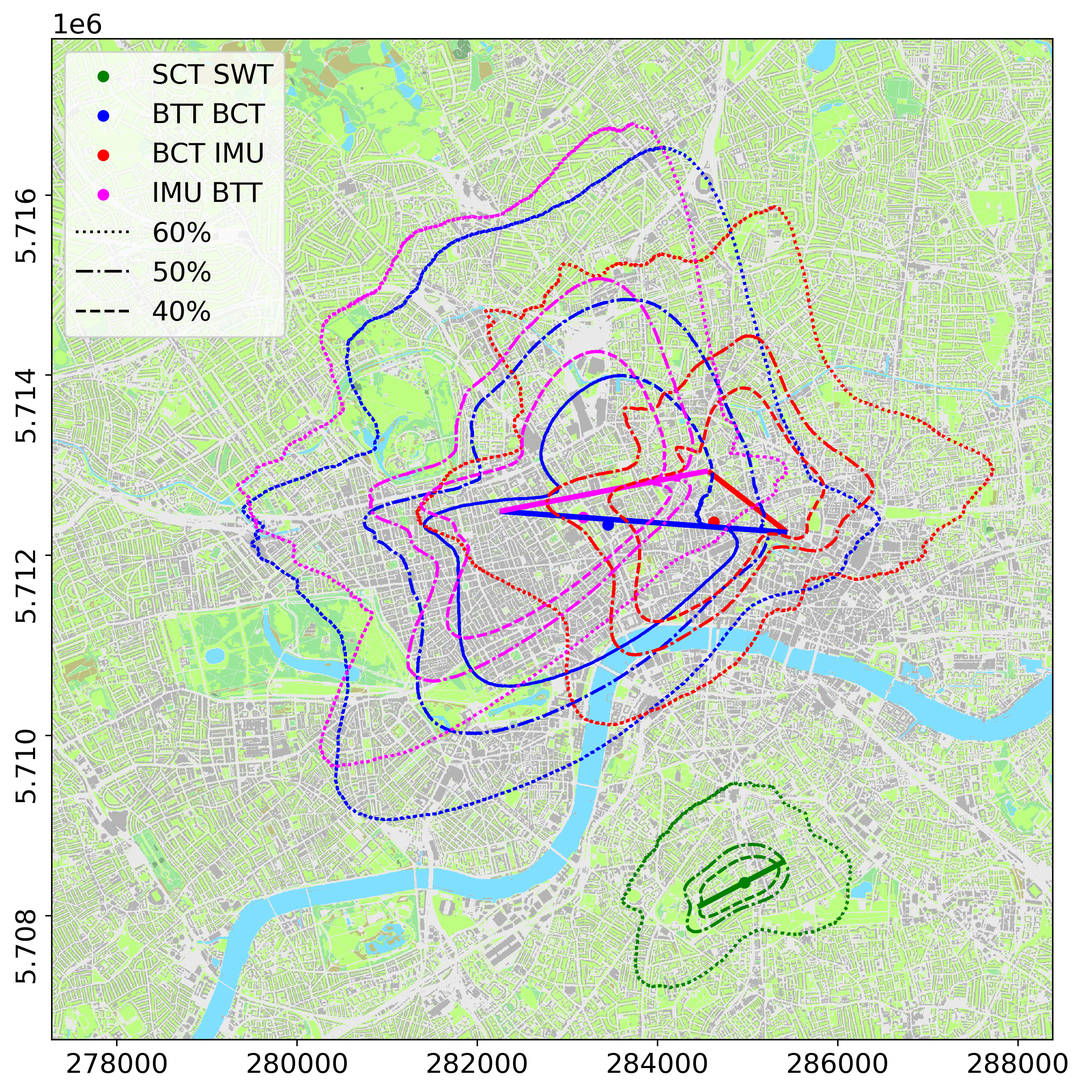
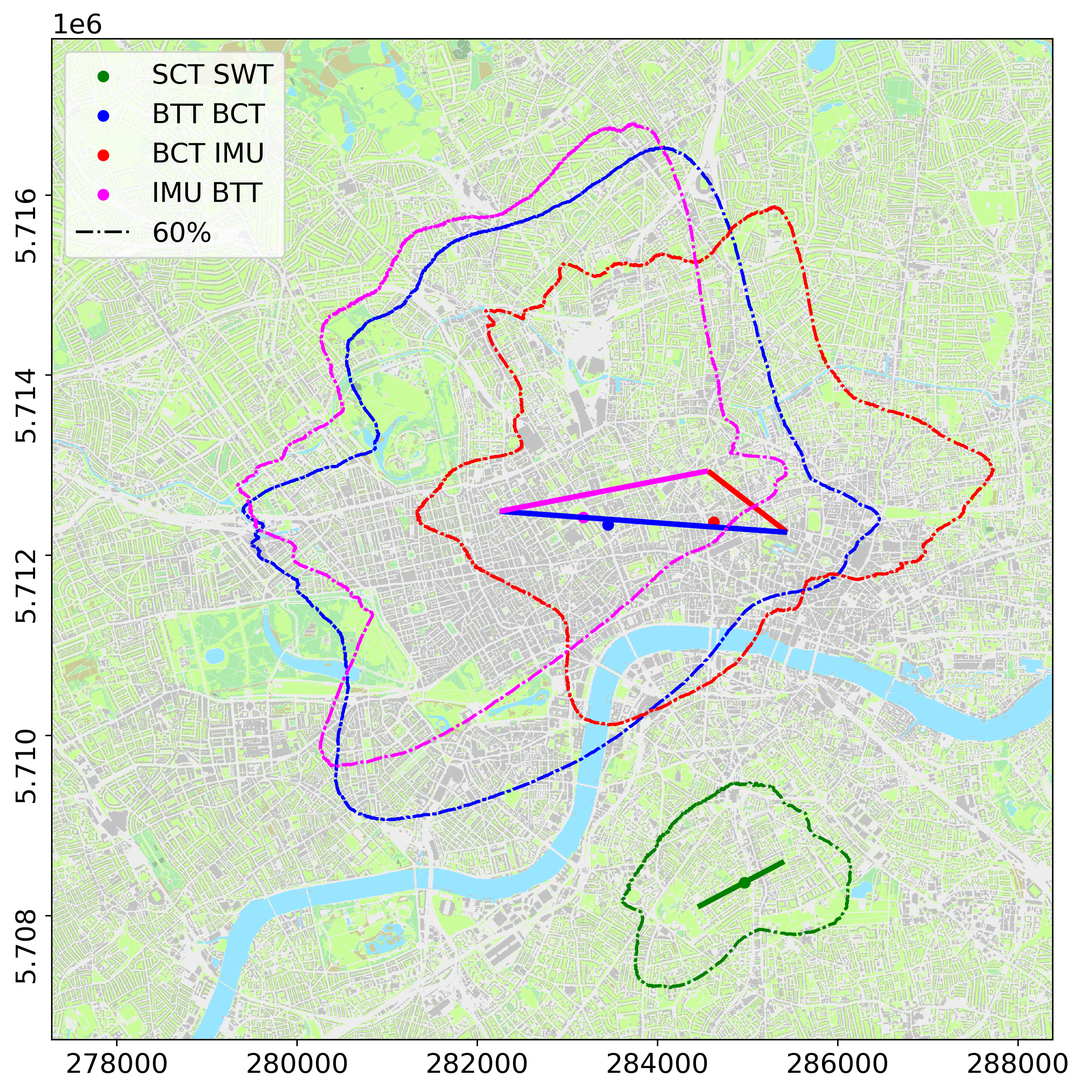
change sa line plot to just 60, and add a function creating a panel for each path

Changed region(s): [[0.0312, 0.031, 0.9996, 0.9603]]

diff --git a/scint_fp/functions/combine_rasters/sa_lines_combine_raster.py b/scint_fp/functions/combine_rasters/sa_lines_combine_raster.py
@@ -10,6 +10,7 @@ import matplotlib as mpl
 import matplotlib.lines as mlines
 import os
 import matplotlib.pyplot as plt
+from matplotlib.colors import LinearSegmentedColormap
 
 import scint_fp.functions.plot_functions.plot_sa_lines.sa_lines_funs as sa_lines_funs
 
@@ -60,7 +61,7 @@ def plot_sa_lines_combined_raster(file_list,
     cmap_lc = colors.ListedColormap(color_list_lc)
     bounds_lc = [0, 1, 2, 3, 4, 5, 6, 7, 8]
     norm_lc = colors.BoundaryNorm(bounds_lc, cmap_lc.N)
-    rasterio.plot.show(landcover_raster, ax=ax, cmap=cmap_lc, norm=norm_lc, interpolation='nearest', alpha=0.5)
+    rasterio.plot.show(landcover_raster, ax=ax, cmap=cmap_lc, norm=norm_lc, interpolation='nearest', alpha=0.4)
 
     # plot paths
     df_12 = gpd.read_file('D:/Documents/scint_plots/scint_plots/sa_position_and_lc_fraction/scint_path_shp/BCT_IMU.shp')
@@ -74,11 +75,6 @@ def plot_sa_lines_combined_raster(file_list,
 
     df_13 = gpd.read_file('D:/Documents/scint_plots/scint_plots/sa_position_and_lc_fraction/scint_path_shp/IMU_BTT.shp')
     df_13.plot(edgecolor='magenta', ax=ax, linewidth=3.0)
-
-    left = []
-    right = []
-    top = []
-    bottom = []
 
     # plot the SAs
     for i, filename in enumerate(file_list):
@@ -95,19 +91,12 @@ def plot_sa_lines_combined_raster(file_list,
 
         raster = rasterio.open(filename)
 
-        left.append(raster.bounds.left)
-        right.append(raster.bounds.right)
-        top.append(raster.bounds.top)
-        bottom.append(raster.bounds.bottom)
-
         raster_array_untrimmed = raster.read()
 
-        fp_40 = reweight_fp(raster_array_untrimmed, labels, 0.4)
-        fp_50 = reweight_fp(raster_array_untrimmed, labels, 0.5)
         fp_60 = reweight_fp(raster_array_untrimmed, labels, 0.6)
-        weight_dict = {'40': fp_40, '50': fp_50, '60': fp_60}
+        weight_dict = {'60': fp_60}
 
-        linestyle_dict = {'60': ':', '50': '-.', '40': '--'}
+        linestyle_dict = {'60': 'dashdot'}
 
         for weight in weight_dict.keys():
 
@@ -145,6 +134,162 @@ def plot_sa_lines_combined_raster(file_list,
     handles, labels = ax.get_legend_handles_labels()
 
     line_60 = mlines.Line2D([], [], color='k', linestyle=linestyle_dict['60'], label='60%')
+
+    handles.append(line_60)
+
+    plt.legend(handles=handles, loc='upper left')
+    plt.yticks(rotation=90)
+
+    # limits which stay constant between and which suit the SAs
+    ax.set_xlim(277277.92426043435, 288387.33066867734)
+    ax.set_ylim(5706625.265920927, 5717734.67232917)
+
+    plt.savefig(save_path + 'sa_lines_combine.png', bbox_inches='tight', dpi=300)
+    # plt.show()
+
+    print('end')
+
+
+def plot_sa_lines_combined_raster_panels(file_list,
+                                         colour_list,
+                                         save_path,
+                                         landcover_raster_filepath='C:/Users/beths/OneDrive - University of Reading/Model_Eval/QGIS/Elliott/LandUseMM_7classes_32631.tif',
+                                         given_list=True):
+    """
+
+    :return:
+    """
+
+    fig = plt.figure(figsize=(10, 10))
+
+    ax1 = plt.subplot(2, 2, 1)
+    ax2 = plt.subplot(2, 2, 2)
+    ax3 = plt.subplot(2, 2, 3)
+    ax4 = plt.subplot(2, 2, 4)
+
+    axs = [ax1, ax2, ax3, ax4]
+
+    # plot the land cover map
+    landcover_raster = rasterio.open(landcover_raster_filepath)
+    color_list_lc = ["white", "dimgrey", "lightgrey", "deepskyblue", "lawngreen", "darkgreen", "limegreen", "olive"]
+    # make a color map of fixed colors
+    cmap_lc = colors.ListedColormap(color_list_lc)
+    bounds_lc = [0, 1, 2, 3, 4, 5, 6, 7, 8]
+    norm_lc = colors.BoundaryNorm(bounds_lc, cmap_lc.N)
+
+    for axis in axs:
+        rasterio.plot.show(landcover_raster, ax=axis, cmap=cmap_lc, norm=norm_lc, interpolation='nearest', alpha=0.4)
+
+        # limits which stay constant between and which suit the SAs
+        axis.set_xlim(277277.92426043435, 288387.33066867734)
+        axis.set_ylim(5706625.265920927, 5717734.67232917)
+
+        # remove x and y ticks
+        axis.set_xticks([])
+        axis.set_yticks([])
+        axis.set_aspect('equal')
+
+    # plot the SAs
+    for i, filename in enumerate(file_list):
+
+        if 'SCT_SWT' in filename:
+            axis = ax4
+        elif 'BCT_IMU' in filename:
+            axis = ax2
+        elif 'BTT_BCT' in filename:
+            axis = ax3
+        else:
+            assert 'IMU_BTT' in filename
+            axis = ax1
+
+        if given_list:
+            # labels as filename without .tif
+            labels = filename.split('.')[0].split('/')[-1]
+
+        else:
+            # labels as time
+            replc = filename.replace('.', '_')
+            splt = replc.split('_')
+            labels = splt[-3] + ':' + splt[-2]
+
+        raster = rasterio.open(filename)
+
+        raster_array_untrimmed = raster.read()
+
+        fp_40 = reweight_fp(raster_array_untrimmed, labels, 0.4)
+        fp_50 = reweight_fp(raster_array_untrimmed, labels, 0.5)
+        fp_60 = reweight_fp(raster_array_untrimmed, labels, 0.6)
+        weight_dict = {'40': fp_40, '50': fp_50, '60': fp_60}
+
+        linestyle_dict = {'60': 'dashdot', '50': (0, (5, 6)), '40': 'dotted'}
+
+        for weight in weight_dict.keys():
+
+            raster_array = weight_dict[weight]
+
+            # make all 0 vals in array nan
+            raster_array[raster_array == 0.0] = np.nan
+
+            # force non-zero vals to be 1
+            bool_arr = np.ones(raster_array.shape)
+
+            # remove nans in bool array
+            nan_index = np.where(np.isnan(raster_array))
+            bool_arr[nan_index] = 0.0
+
+            # get location of max val
+            ind_max_2d = np.unravel_index(np.nanargmax(raster_array), raster_array.shape)[:]
+            max_coords = raster.xy(ind_max_2d[0], ind_max_2d[1])
+
+            # Plot the SA line
+
+            if type(colour_list[i]) == str:
+                colour_here = colour_list[i]
+            else:
+                colour_here = list(colour_list[i])
+
+            # line_label = labels.split('_')[0] + ' ' + labels.split('_')[1]
+
+            sas = rasterio.plot.show(bool_arr, transform=raster.transform, contour=True, contour_label_kws={}, ax=axis,
+                                     colors=[colour_here], linestyles=[linestyle_dict[weight]])
+
+            plt.setp(sas.collections, linewidth=1)
+
+            if weight == '60':
+                axis.scatter(max_coords[0], max_coords[1], color=colour_here, marker='o', s=30)
+
+                # plot a solid colour in the 60 extent
+                shade_array = bool_arr.copy()
+                shade_array[shade_array == 0] = np.nan
+
+                # faff with custom cmap for just 1 colour
+                vmax = 3.0
+                cmap_path = LinearSegmentedColormap.from_list('mycmap', [(0 / vmax, 'white'),
+                                                                         (1 / vmax, colour_here),
+                                                                         (3 / vmax, 'white')])
+                rasterio.plot.show(shade_array, transform=raster.transform, ax=axis, cmap=cmap_path, vmin=0, vmax=vmax,
+                                   alpha=0.1)
+
+    # plot paths
+    # ax1: top left: IMU BTT
+    df_13 = gpd.read_file('D:/Documents/scint_plots/scint_plots/sa_position_and_lc_fraction/scint_path_shp/IMU_BTT.shp')
+    df_13.plot(edgecolor='magenta', ax=ax1, linewidth=2.0)
+
+    # ax2: top right: BCT IMU
+    df_12 = gpd.read_file('D:/Documents/scint_plots/scint_plots/sa_position_and_lc_fraction/scint_path_shp/BCT_IMU.shp')
+    df_12.plot(edgecolor='red', ax=ax2, linewidth=2.0)
+
+    # ax3: bottom left: BTT BCT
+    df_11 = gpd.read_file('D:/Documents/scint_plots/scint_plots/sa_position_and_lc_fraction/scint_path_shp/BTT_BCT.shp')
+    df_11.plot(edgecolor='blue', ax=ax3, linewidth=2.0)
+
+    # ax4: bottom right: SCT SWT
+    df_15 = gpd.read_file('D:/Documents/scint_plots/scint_plots/sa_position_and_lc_fraction/scint_path_shp/SCT_SWT.shp')
+    df_15.plot(edgecolor='green', ax=ax4, linewidth=2.0)
+
+    handles, labels = ax1.get_legend_handles_labels()
+
+    line_60 = mlines.Line2D([], [], color='k', linestyle=linestyle_dict['60'], label='60%')
     line_50 = mlines.Line2D([], [], color='k', linestyle=linestyle_dict['50'], label='50%')
     line_40 = mlines.Line2D([], [], color='k', linestyle=linestyle_dict['40'], label='40%')
 
@@ -153,26 +298,12 @@ def plot_sa_lines_combined_raster(file_list,
     handles.append(line_40)
 
     plt.legend(handles=handles, loc='upper left')
-    plt.yticks(rotation=90)
 
-    # set limits according to raster
-    """
-    left_bound = min(left)
-    right_bound = max(right)
-    top_bound = max(top)
-    bottom_bound = min(bottom)
+    # ToDo: fix the amound of white space around the subplots here
 
-    ax.set_xlim(left_bound, right_bound)
-    ax.set_ylim(bottom_bound, top_bound)
-    """
+    plt.tight_layout()
 
-    # limits which stay constant between and which suit the SAs
-    # """
-    ax.set_xlim(277277.92426043435, 288387.33066867734)
-    ax.set_ylim(5706625.265920927, 5717734.67232917)
-    # """
-
-    plt.savefig(save_path + 'sa_lines_combine.png', bbox_inches='tight', dpi=300)
+    plt.savefig(save_path + 'sa_lines_combine_panels.png', bbox_inches='tight', dpi=300)
     # plt.show()
 
     print('end')
@@ -190,6 +321,7 @@ if __name__ == '__main__':
 
     save_path = os.getcwd().replace('\\', '/') + '/'
 
-    plot_sa_lines_combined_raster(file_list=file_list, colour_list=colour_list, save_path=save_path)
+    # plot_sa_lines_combined_raster(file_list=file_list, colour_list=colour_list, save_path=save_path)
+    plot_sa_lines_combined_raster_panels(file_list=file_list, colour_list=colour_list, save_path=save_path)
 
     print('end')
